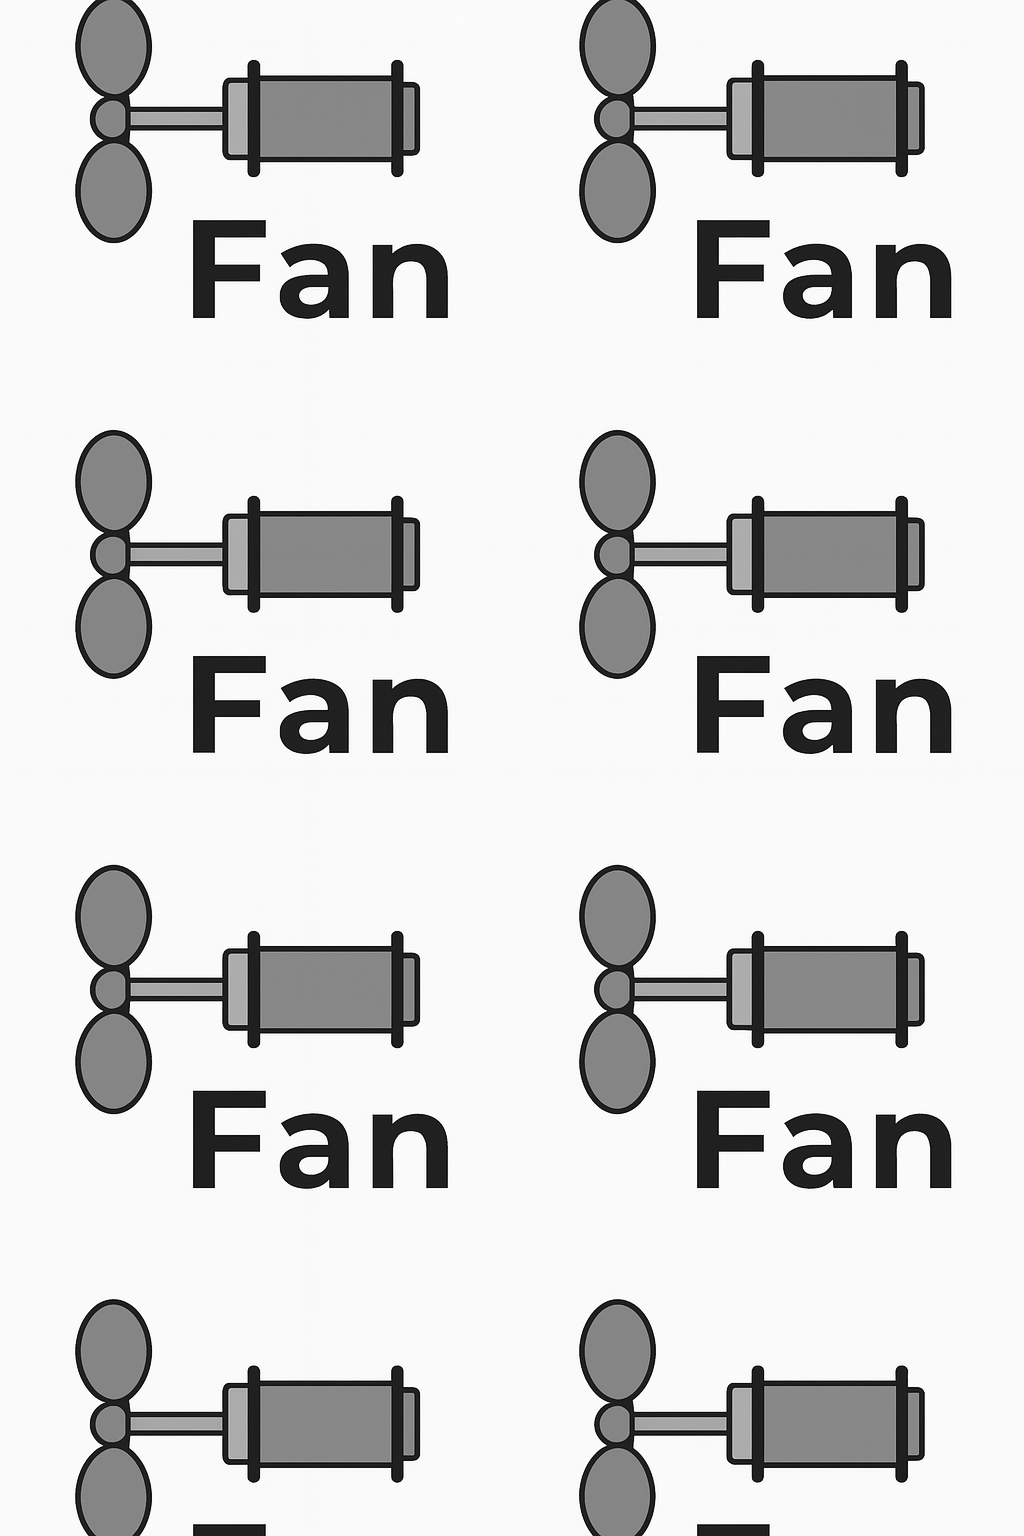
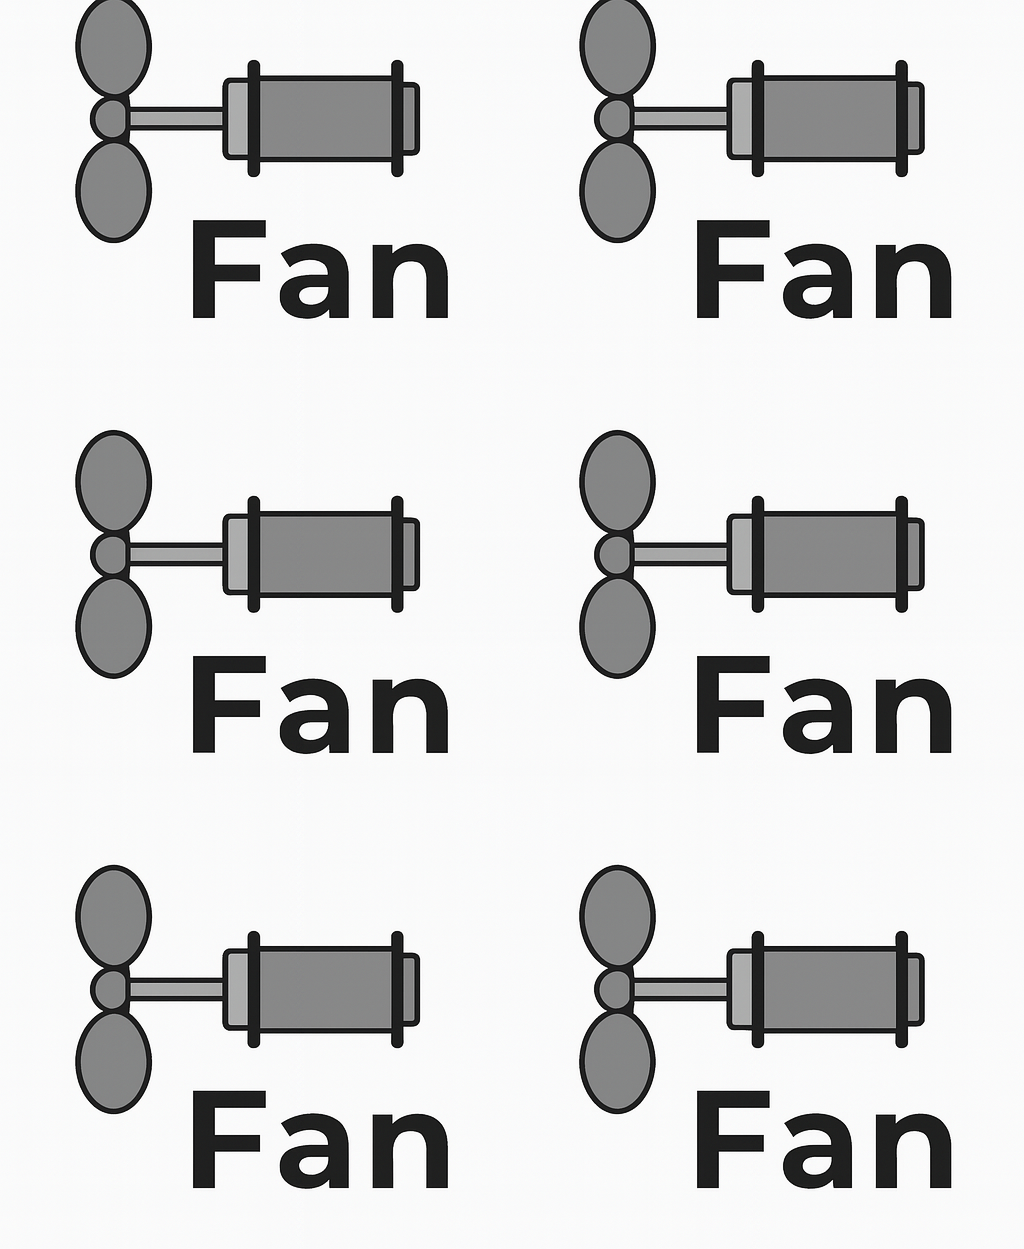
fixes

diff --git a/src/components/AutoDiagram.tsx b/src/components/AutoDiagram.tsx
@@ -203,9 +203,9 @@ export default function HVACDashboard({blower,data,formatValue,machineName}:any)
       <div className="absolute left-110 top-48 ml-24">
         <div className="text-center">
           <div className="text-lg font-bold">T2</div>
-          <div className="text-lg font-bold">       {formatValue(
+          <div className="text-lg">       {formatValue(
                 data?.T2_temp_mean || data?.AMBIENT_AIR_TEMP_T2
-              ) || "N/A"}</div>
+              ) || "N/A"}°C </div>
         </div>
       </div>
 
@@ -238,7 +238,7 @@ export default function HVACDashboard({blower,data,formatValue,machineName}:any)
  
 
       {/* Additional Blower */}
-      <div className="absolute left-96 top-96 ml-32">
+      <div className="absolute left-96 top-92 ml-32">
         <div className= "text-black px-6 py-4 text-center rounded">
           <img src="https://www.thumbsfrog.com/1046553/pages/low-pressure-blower-image-1695819922-1046553.jpg" alt="" width={70} height={70}/>
           <div className="text-xs font-bold">BLOWER</div>
@@ -251,7 +251,7 @@ export default function HVACDashboard({blower,data,formatValue,machineName}:any)
 
       {/* Condenser Fan */}
       <div className="absolute right-32 top-32 max-[1500px]:right-9">
-        <div className="w-16 h-32 bg-pink-200 border-2 border-red-300 rounded-lg relative">
+        <div className="w-12 h-32 bg-pink-200 border-2 border-red-300 rounded-lg relative">
           <div className="absolute bottom-1 left-1 right-1 h-3 bg-red-400 rounded-full"></div>
           <div className="absolute top-2 right-2">
             <div className="w-3 h-3 bg-red-500 rounded-full"></div>
@@ -265,7 +265,7 @@ export default function HVACDashboard({blower,data,formatValue,machineName}:any)
             </div>
           </div>
         </div>
-        <div className="absolute -bottom-8 left-1/2 transform -translate-x-1/2 text-center">
+        <div className="absolute -bottom-12 left-1/2 transform -translate-x-1/2 text-center">
           <div className="text-sm font-bold">Condensor</div>
           <div>      {formatValue(data.Value_to_Display_COND_ACT_SPEED, "%")}</div>
         </div>
@@ -276,7 +276,7 @@ export default function HVACDashboard({blower,data,formatValue,machineName}:any)
       </div>
 
       {/* Compressor Unit */}
-      <div className="absolute right-32 bottom-32">
+      <div className="absolute right-32 bottom-32 max-[1600px]:left-[38rem]">
         <div className="w-20 h-12 rounded relative">
         <img src="https://tse2.mm.bing.net/th/id/OIP.I6O7E9W-F27nxBsa_GZ35wAAAA?r=0&w=370&h=370&rs=1&pid=ImgDetMain&cb=idpwebp2&o=7&rm=3" width={80} height={80}/>  
         </div>
